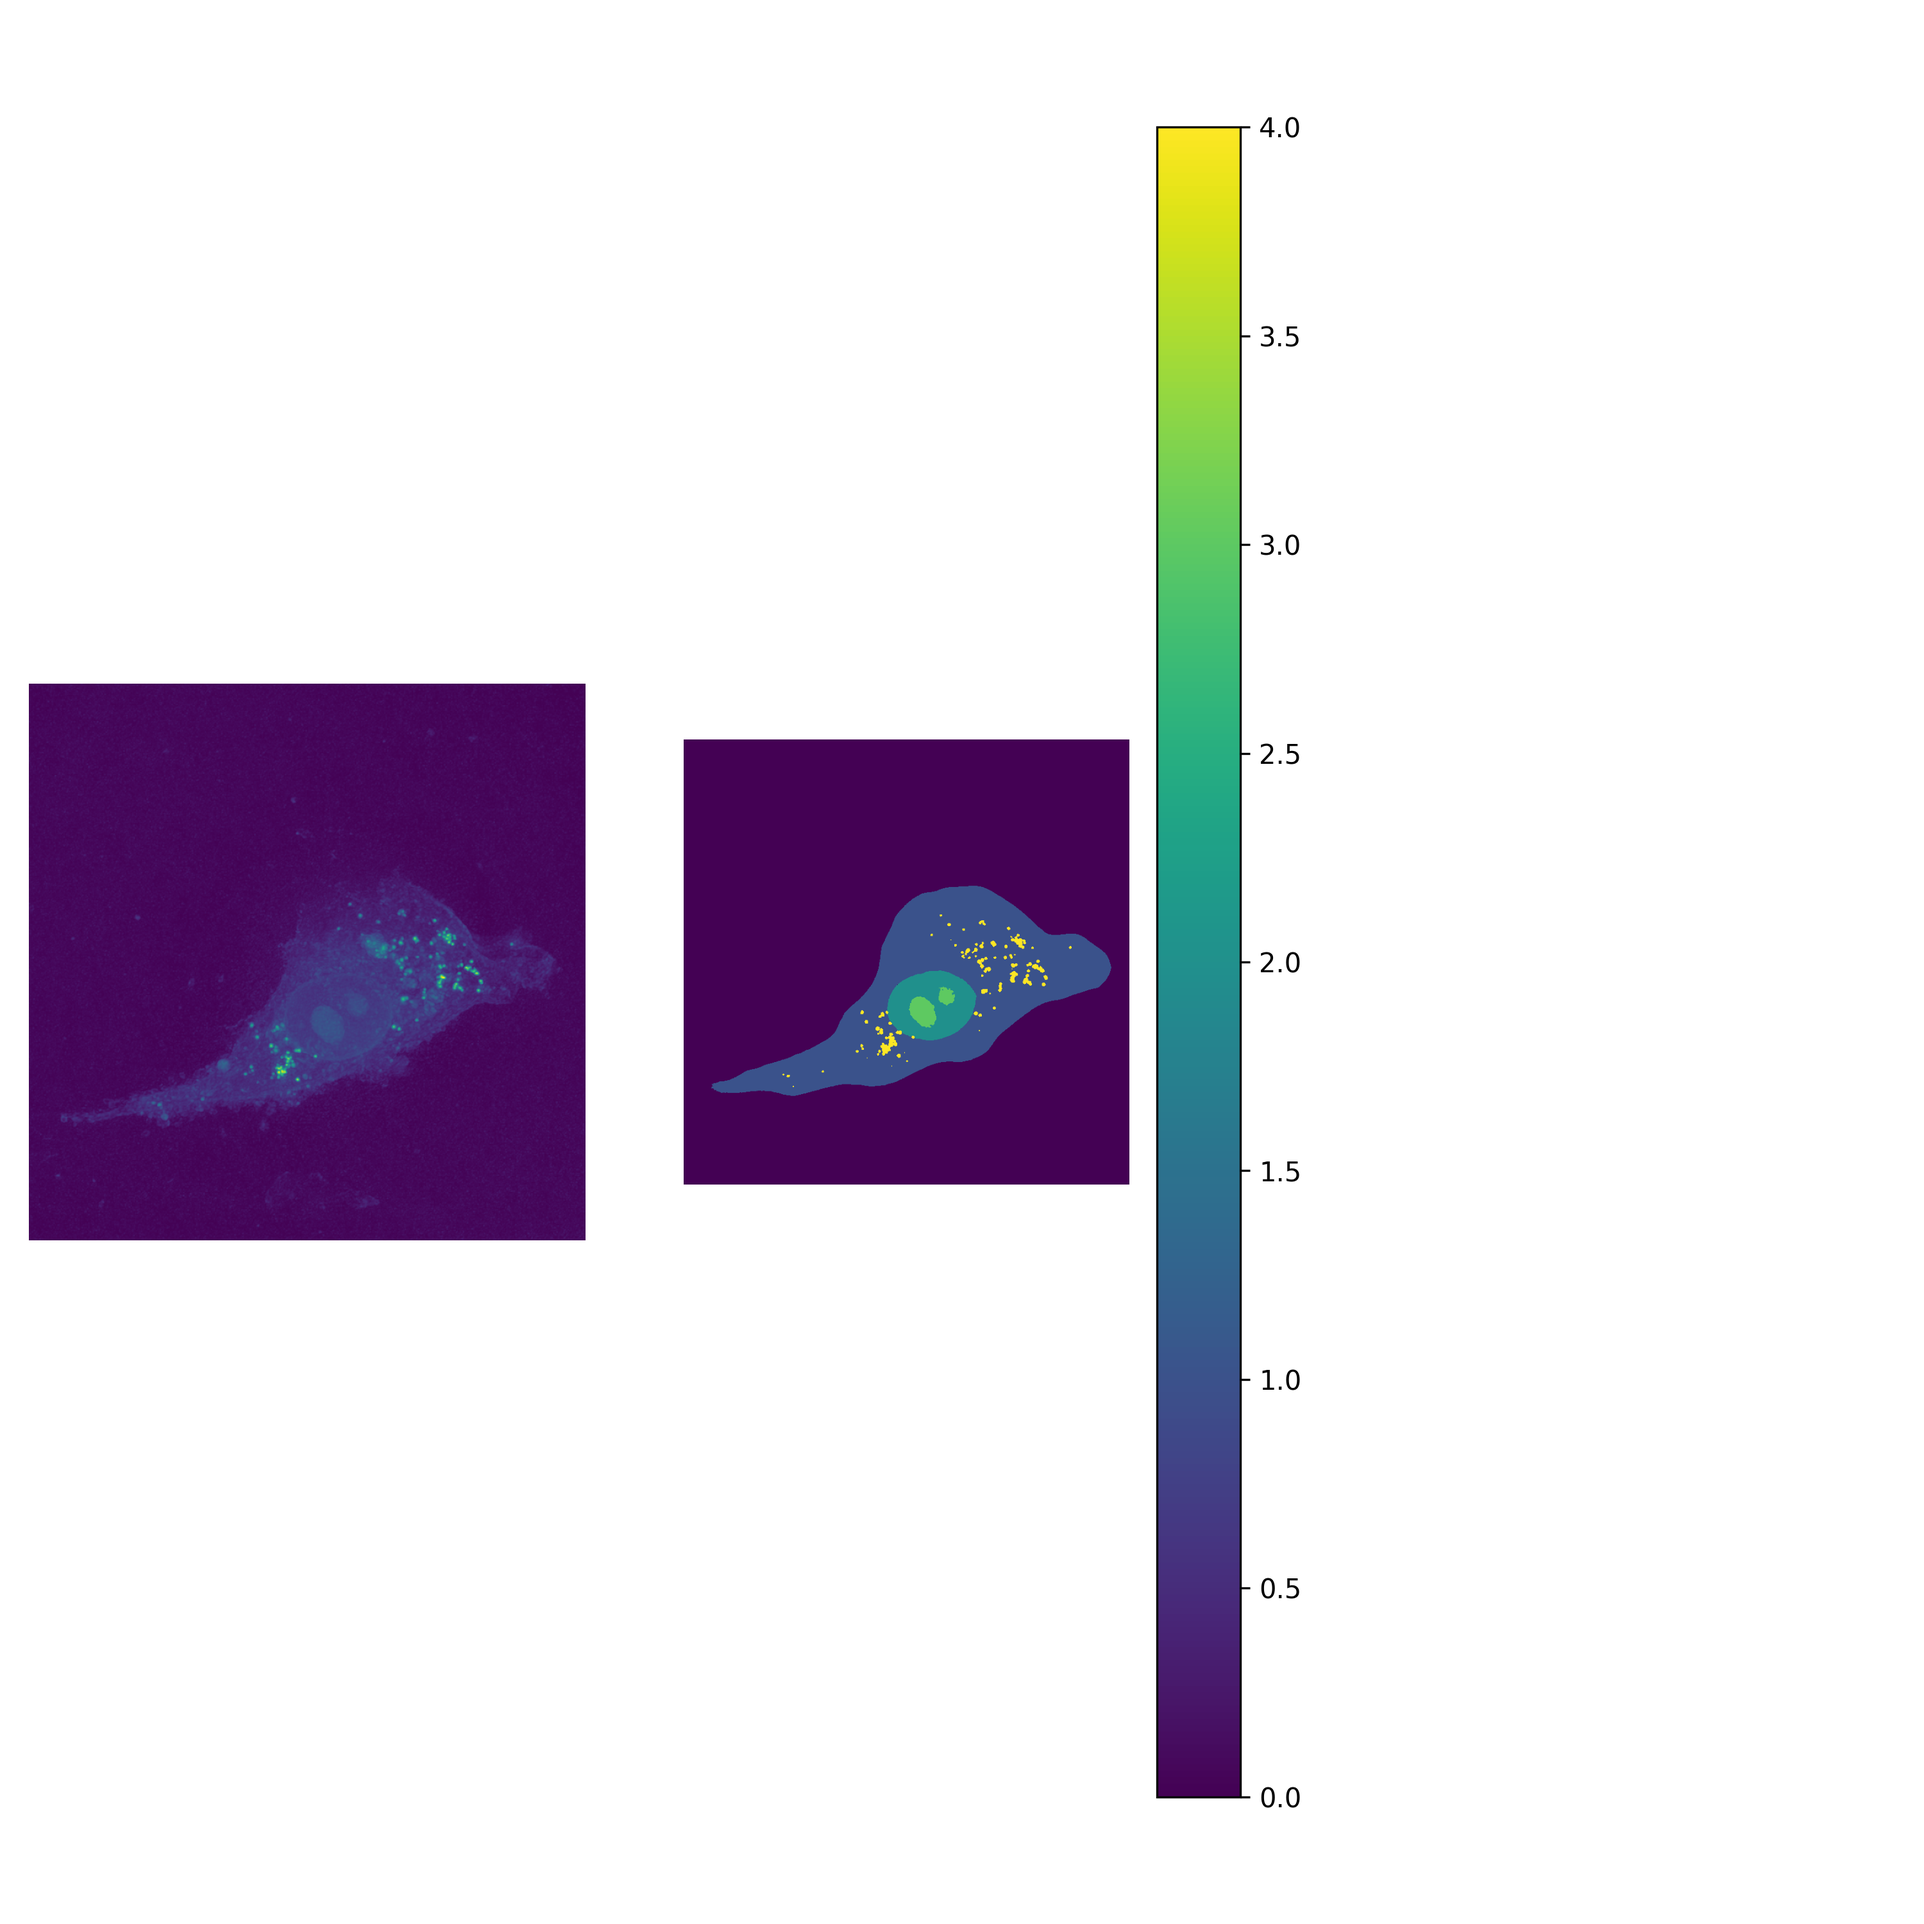
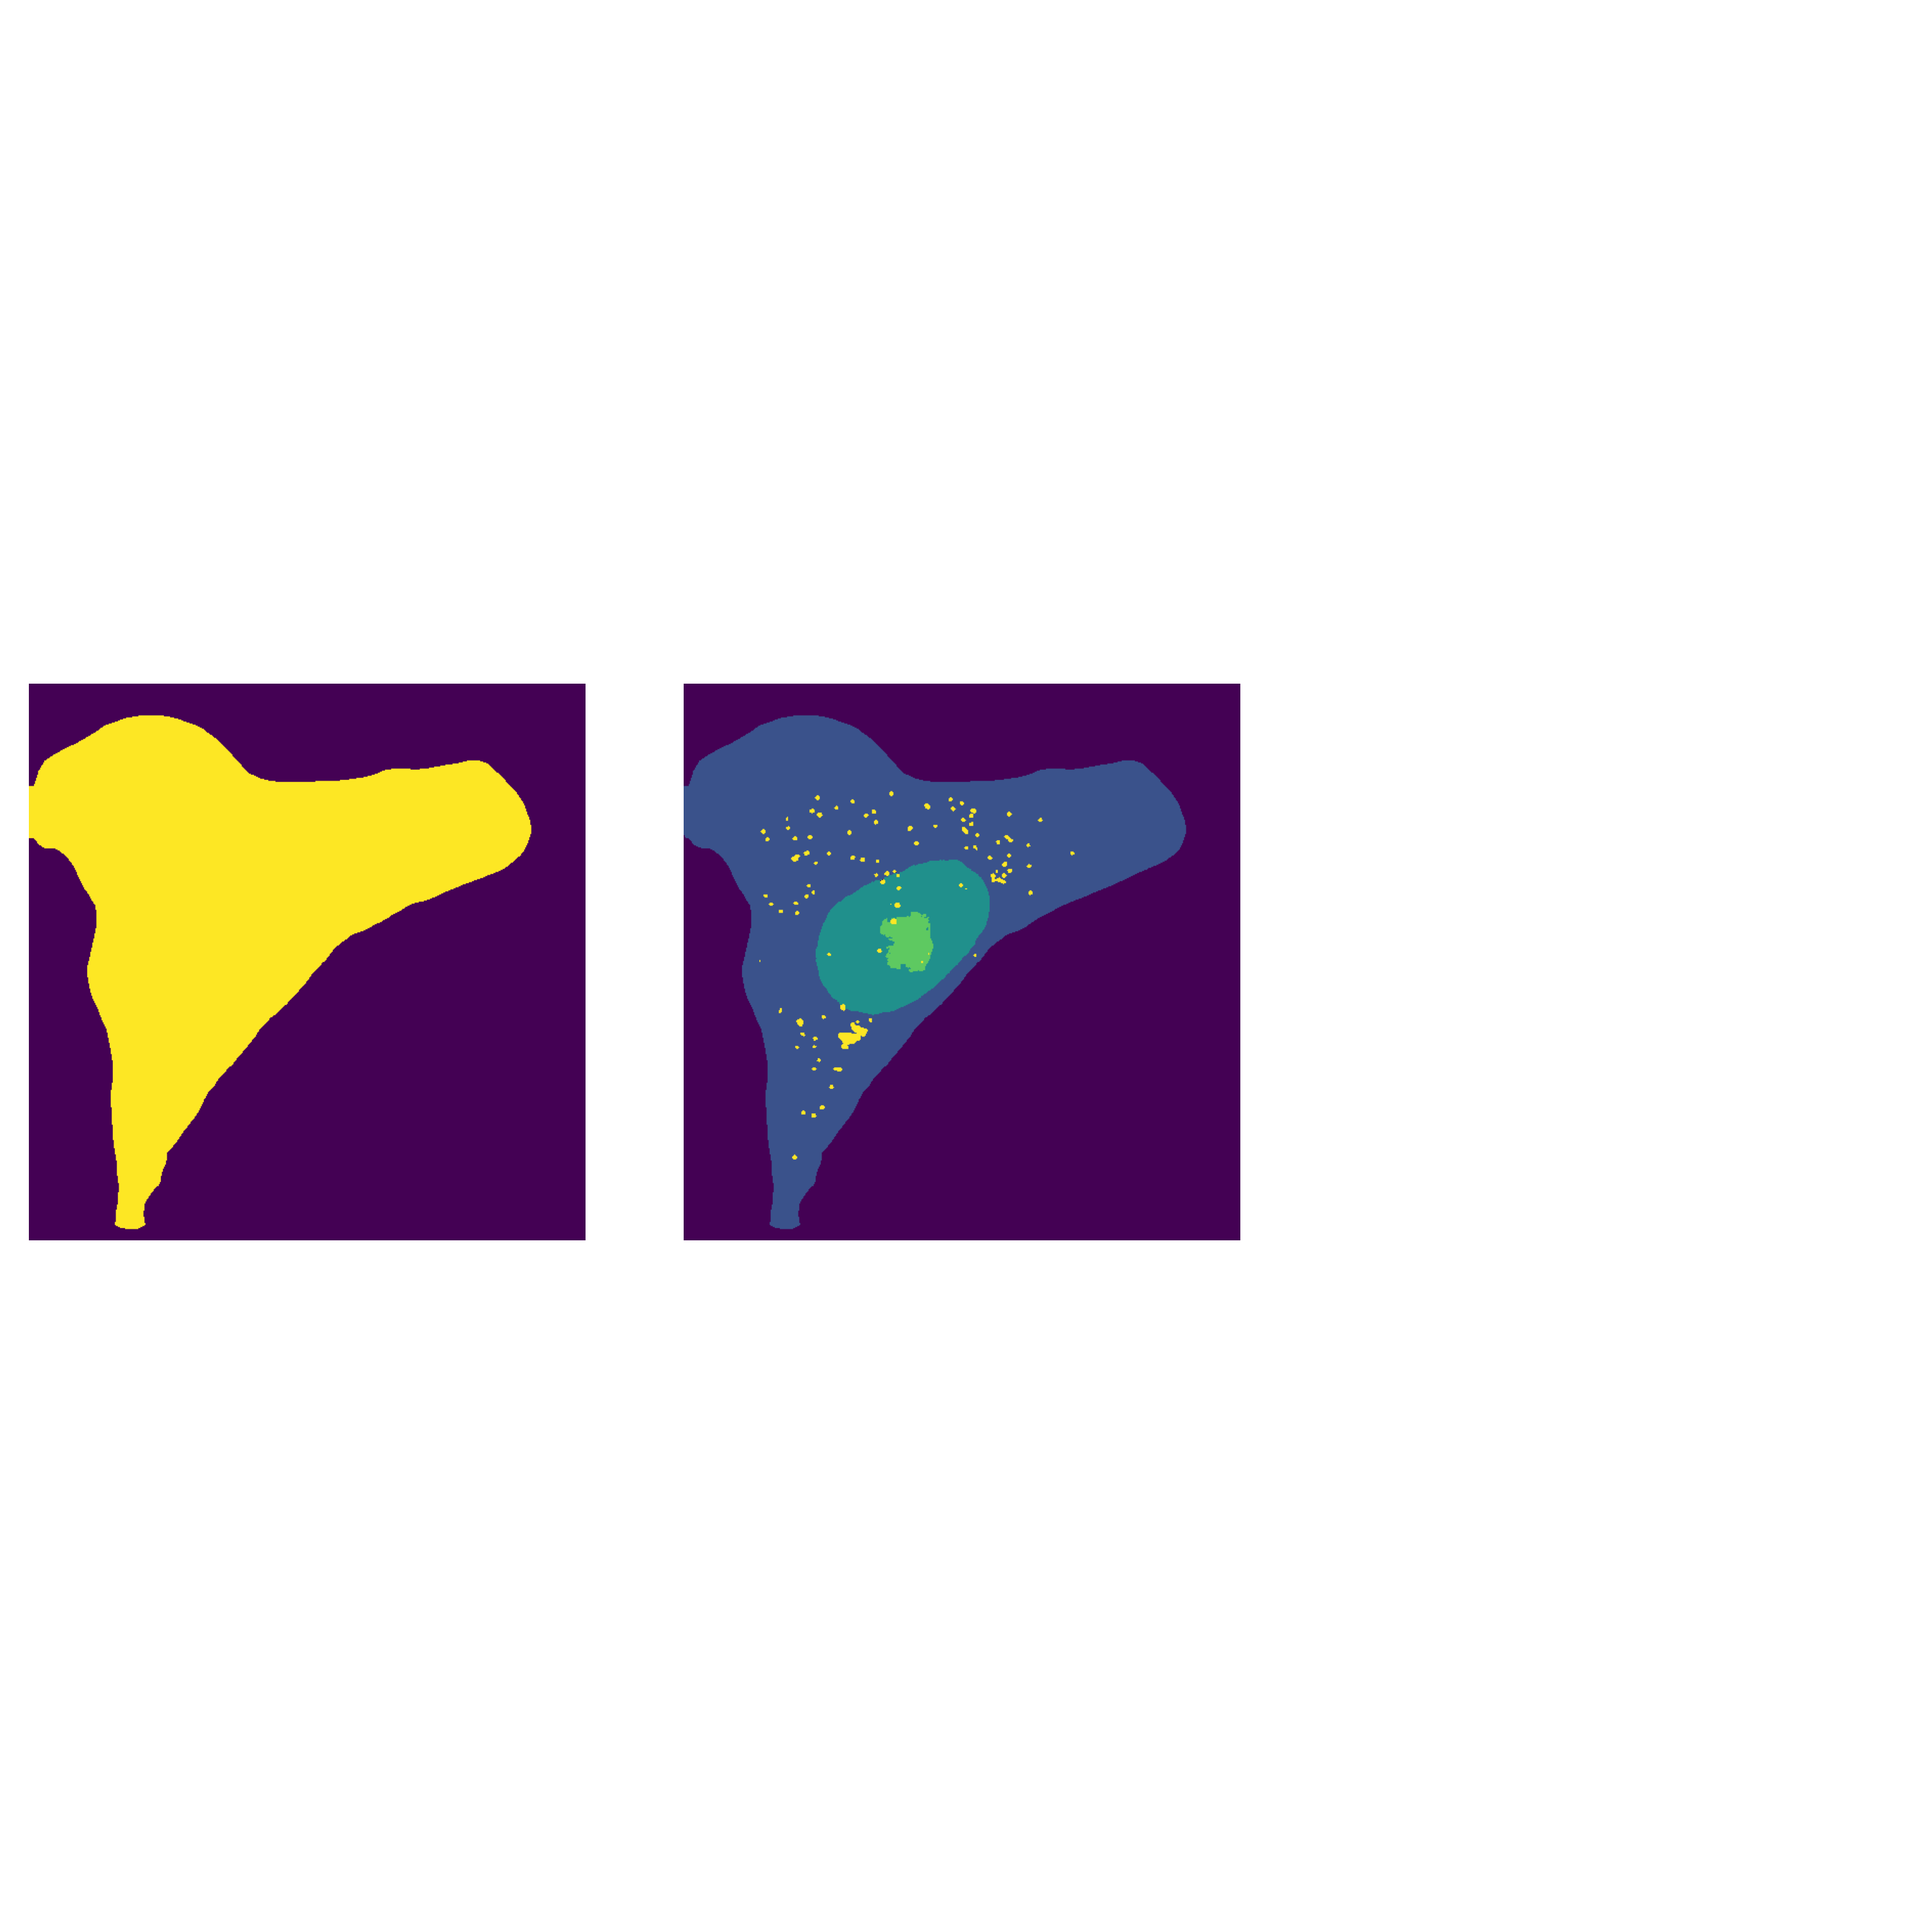
correct measurements_per_cell - it stores images

Changed region(s): [[0.341, 0.062, 0.651, 0.961], [0.0, 0.372, 0.31, 0.651]]

diff --git a/qpi_seg/measurements_per_cell.py b/qpi_seg/measurements_per_cell.py
@@ -9,8 +9,7 @@ from skimage.measure import label, regionprops
 import numpy as np
 import pandas as pd
 import matplotlib.pyplot as plt 
-import qpi_seg.visualize as vs
-
+import qpi_seg.visualize_unseen_unmasked as visualize
 #actually you put unseen image
 images_folder=r'C:\Users\anous\OneDrive - Johns Hopkins\2026_datanalysis\dlmi2\UNSEEN_MIP_1'
 
@@ -20,14 +19,14 @@ cellpose_mask_folder=r'C:\Users\anous\OneDrive - Johns Hopkins\2026_datanalysis\
 unet_mask_folder=r'C:\Users\anous\OneDrive - Johns Hopkins\2026_datanalysis\dlmi2\UNSEEN_UNET_MASK'
 
 output_folder=r'C:\Users\anous\OneDrive - Johns Hopkins\2026_datanalysis\dlmi2\UNSEEN_COMBINED_MASK'
-images=[tifffile.imread(os.path.join(images_folder,file)) for file in os.listdir(images_folder)]
-cp_masks=[tifffile.imread(os.path.join(cellpose_mask_folder,file)) for file in os.listdir(cellpose_mask_folder)]
-unet_masks=[tifffile.imread(os.path.join(unet_mask_folder,file)) for file in os.listdir(unet_mask_folder)]
+#images=[skimage.io.imread(os.path.join(images_folder,file)) for file in sorted(os.listdir(images_folder))]
+cp_masks=[skimage.io.imread(os.path.join(cellpose_mask_folder,file)) for file in sorted(os.listdir(cellpose_mask_folder))]
+unet_masks=[skimage.io.imread(os.path.join(unet_mask_folder,file)) for file in sorted(os.listdir(unet_mask_folder))]
 
-out_file_name_stems=[os.path.splitext(file)[0][:30]+'_combined_masks'for file in os.listdir(images_folder)]
+out_file_name_stems=[os.path.splitext(file)[0][:40]+'_combined_masks'for file in sorted(os.listdir(images_folder))]
 
 #images to natural RI range
-images_RI= [image/1e4 for image in images ]
+#images_RI= [image/1e4 for image in images ]
 
 intensity_means_all = []
 areas_all=[]
@@ -43,25 +42,24 @@ area_all=[]
 intensity_std_all=[]
 
 out_file_name_masks=[]
-for i in range(len(images_RI)):
-    image=images_RI[i]
+for i in range(len(cp_masks)):
+    #image=images_RI[i]
     cp_mask = cp_masks[i]
     unique_values=np.unique(cp_mask)
     unique_values=unique_values[unique_values>0] #remove background (0)
-    mask2=cp_mask.copy()
+    print(unique_values)
     for submask_value in unique_values:
+        mask2=cp_mask.copy()
         mask2[mask2 != submask_value] = 0
         mask2[mask2>0]=1
         #per cell semantic mask = cp_mask after filter x unet_masks[i]
         combined_mask = mask2 * unet_masks[i]
-        
-        mask2[combined_mask==2]=2
-        mask2[combined_mask==3]=3
-        mask2[combined_mask==4]=4
-        combined_mask2=mask2.astype(np.int64)
-        out_file_name_stem=f"{out_file_name_stems[i]}{submask_value}.tiff" 
-        out_file_name_masks.append(out_file_name_stem)
-        combined_masks.append(combined_mask2)
+        visualize.visualize(mask2, combined_mask)
+        combined_mask[mask2==1]=1
+        out_file_name_stem=f"{out_file_name_stems[i]}_mask{submask_value}.tiff"
+        print(out_file_name_stem)
+        out_file_name_masks.append(os.path.join(output_folder,out_file_name_stem))
+        combined_masks.append(combined_mask)
         #props_table = skimage.measure.regionprops_table(combined_mask, intensity_image=image, properties=['label', 'intensity_mean','area','intensity_std'])
         #areas_all.append(np.array(props_table['area']))
         #intensity_mean_all.append(np.array(props_table['intensity_mean']))
@@ -69,7 +67,7 @@ for i in range(len(images_RI)):
 for i in range(len(out_file_name_masks)):
     tifffile.imwrite(
         out_file_name_masks[i],
-        combined_masks[i].detach().cpu().numpy()
+        combined_masks[i]
     )
 #areas=pd.DataFrame(areas_all, columns =['Cell_area','Nucleus_area','Nucleolus_area','Lipid_area'])
 #meanRI=pd.DataFrame(intensity_mean_all,columns=['Cell_RImean','Nucleus_RImean','Nucleolus_RImean','Lipid_RImean'])

diff --git a/data_cleaning_pyfiles/test_stitched_filenames.py b/data_cleaning_pyfiles/test_stitched_filenames.py
@@ -1,7 +1,7 @@
 import os
 import qpi_seg.file_charactersmatch as filetest
-image_folder=r'C:\Users\anous\OneDrive - Johns Hopkins\2026_datanalysis\dlmi2\MIP_stitched_with_multiple_cells'
-mask_folder=r'C:\Users\anous\OneDrive - Johns Hopkins\2026_datanalysis\dlmi2\Reference_masks_for_mask_stitched_with_multiple_cells'
+image_folder=r'C:\Users\anous\OneDrive - Johns Hopkins\2026_datanalysis\dlmi2\UNSEEN_UNET_MASK'
+mask_folder=r'C:\Users\anous\OneDrive - Johns Hopkins\2026_datanalysis\dlmi2\UNSEEN_MIP_1_CELL_MASK'
 image_filenames=sorted(os.listdir(image_folder))
 mask_filenames=sorted(os.listdir(mask_folder))
 print(filetest.filetest(image_filenames,mask_filenames))

diff --git a/qpi_seg/visualize_unseen_unmasked.py b/qpi_seg/visualize_unseen_unmasked.py
@@ -8,7 +8,6 @@ def visualize(im1,im3):
     plt.subplot(132)
     plt.imshow(im3,vmin=0,vmax=4)
     plt.title("UNet predicted mask",color="white")
-    plt.colorbar()
     plt.tight_layout()
     plt.axis('off')
     plt.savefig('demoimage.png',dpi=300,transparent=True)

diff --git a/README.md b/README.md
@@ -1,9 +1,9 @@
-Cellpose is used for instance segmentation to identify different cell instances in a QPI MIP image.
+About qpi_seg folder:
 
-UNET is used to segment cell, nucleus, nucleolus, lipid droplet and background (5 channels) from QPI image of sizes greater than (832, 832). 
+Cellpose is used for instance segmentation to identify different cell instances in a QPI MIP image. UNET is used to segment cell, nucleus, nucleolus, lipid droplet and background (5 channels) from QPI image
 
-
-Please put new image folder path in 'predict_unseen.py' script inside qpi_seg folder to test out masks from Unet. To test out masks from cellpose (afterfinetuning), use the 'cellpose_pretrained_eval.py', for original cellpose use 'cellpose_eval.py'.
+Predict scripts - 
+For inferring masks from Unet: 'predict_unseen.py'. For inference from cellpose (afterfinetuning): 'cellpose_pretrained_eval.py', for inference from original cellpose: 'cellpose_eval.py'.
 
 To use the predict_unseen.py file you would need the saved model that is https://livejohnshopkins-my.sharepoint.com/:u:/g/personal/agupt130_jh_edu/IQCuq4fhppjxRbd9RnAlhxV_ARqKCvYyAgTsh4ZhQGkvFV4?e=fHOBhD
 
@@ -17,9 +17,7 @@ once you are on the folder
 6. pip3 install torch torchvision (for downloading torch on Windows without GPU)
 7. pip install cellpose
 
-
-
-You will also need two folders access
+You will also need two saved models 
 1. cellpose pre-trained model (trained on 700 breast cancer MIPs so far)
 2. UNet 
 
